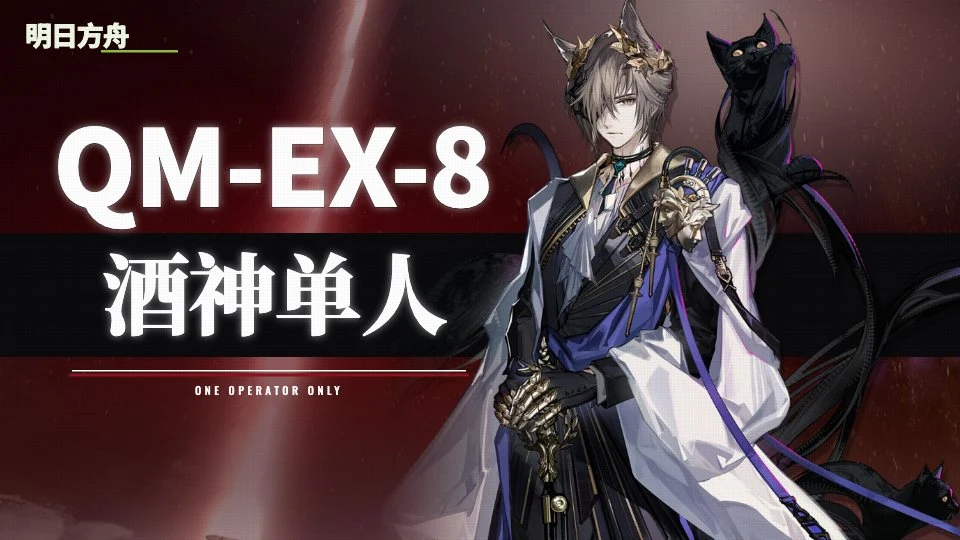
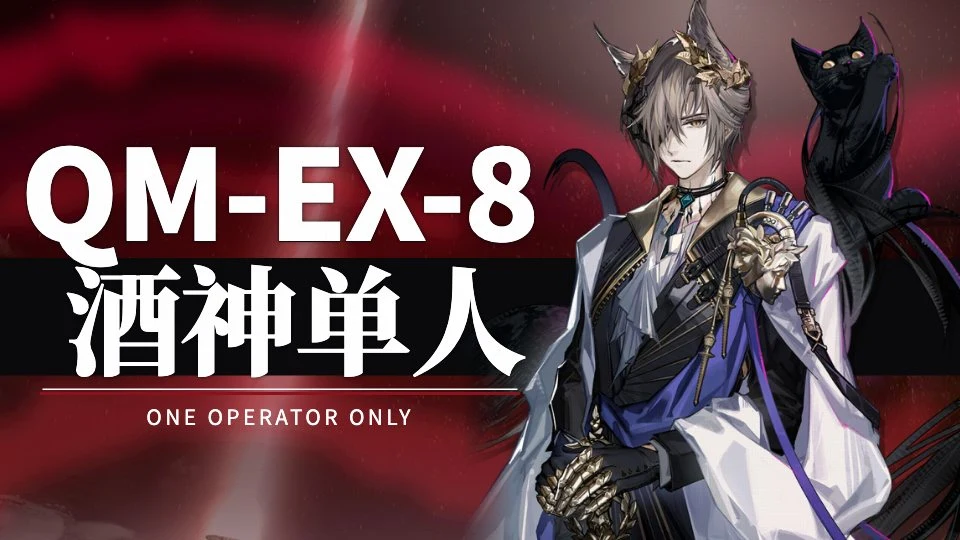
feat(template): 按用户稿重排仅需一人
WHAT: 把仅需一人默认构图改成用户确认过的排版
WHY: 旧默认字级、立绘位置和官方标与实际使用稿不一致
HOW: 加宽左侧字栏、去掉默认官方标、补红雾；读旧稿时清掉已固化的默认偏移

diff --git a/src/templates/Solo.browser.test.tsx b/src/templates/Solo.browser.test.tsx
@@ -6,7 +6,7 @@ import { EditorPanel } from "../components/EditorPanel";
 import { EffectsPanel } from "../components/EffectsPanel";
 import { InspectorPanel } from "../components/InspectorPanel";
 import "../index.css";
-import { emptyDraft } from "../lib/storage";
+import { emptyDraft, loadState, saveState } from "../lib/storage";
 import { CoverProvider } from "../store/CoverContext";
 import { Solo } from "./Solo";
 
@@ -71,7 +71,7 @@ test("仅需一人模板显示关卡码、宋体标题和英文标", async () =>
   expect(washEl).not.toBeNull();
   expect(getComputedStyle(washEl!).opacity).toBe("1");
   expect(screen.container.querySelector('[data-cover-el="light"]')).not.toBeNull();
-  expect(screen.container.querySelector("[data-ak-mark]")?.textContent).toContain("明日方舟");
+  expect(screen.container.querySelector("[data-ak-mark]")).toBeNull();
   expect(operator).not.toBeNull();
 
   const canvas = screen.container.querySelector("[data-solo-canvas]") as HTMLElement;
@@ -89,7 +89,10 @@ test("仅需一人模板显示关卡码、宋体标题和英文标", async () =>
   expect(Math.abs(barBox.left - canvasBox.left)).toBeLessThan(8);
   const titleFace = title!.querySelector("[data-solo-title-face]") as HTMLElement;
   const faceBox = titleFace.getBoundingClientRect();
-  expect(faceBox.top).toBeGreaterThanOrEqual(barBox.top - 1);
+  expect(faceBox.width).toBeGreaterThan(canvasBox.width * 0.45);
+  expect(sloganBox.height).toBeGreaterThan(40);
+  // 用户配置将标题相对黑条上移约 3px。
+  expect(faceBox.top - barBox.top).toBeCloseTo(-3.0366323907455017, 1);
   expect(faceBox.bottom).toBeLessThanOrEqual(barBox.bottom + 1);
   const barSlot = screen.container.querySelector("[data-solo-title-bar]") as HTMLElement;
   const operatorSlot = screen.container.querySelector("[data-operator-slot]") as HTMLElement;
@@ -104,9 +107,9 @@ test("仅需一人模板显示关卡码、宋体标题和英文标", async () =>
   const axis = mid(titleBox);
   expect(mid(stageBox)).toBeLessThan(axis);
   expect(Math.abs(mid(stageBox) - axis)).toBeLessThan(40);
-  expect(Math.abs(mid(ruleBox) - axis)).toBeLessThan(16);
-  expect(Math.abs(mid(ruleRedBox) - axis)).toBeLessThan(16);
-  expect(Math.abs(mid(sloganBox) - axis)).toBeLessThan(16);
+  expect(Math.abs(mid(ruleBox) - axis)).toBeLessThan(32);
+  expect(Math.abs(mid(ruleRedBox) - axis)).toBeLessThan(32);
+  expect(Math.abs(mid(sloganBox) - axis)).toBeLessThan(32);
   expect(stage?.className).toContain("font-cn");
 
   const scene = screen.container.querySelector("[data-cover-bg]") as HTMLElement | null;
@@ -183,14 +186,14 @@ test("空稿带上酒神默认立绘和关卡码", () => {
   expect(draft.operatorId).toBe("char_1042_phatm2");
   expect(draft.artId).toBe("char_1042_phatm2_1");
   expect(draft.operatorName).toBe("酒神");
-  expect(draft.imageScale).toBe(203);
-  expect(draft.imageX).toBe(24);
-  expect(draft.imageY).toBe(121);
+  expect(draft.imageScale).toBe(244);
+  expect(draft.imageX).toBe(192.2750642673525);
+  expect(draft.imageY).toBe(182.0179948586127);
   expect(draft.bgPreset).toBe("38_g17_1");
   expect(draft.textBgPreset).toBe("21_G5_victoria_street_n_ruins");
   expect(draft.layers.find((layer) => layer.id === "wash")?.opacity).toBe(74);
   const operatorLayer = draft.layers.find((layer) => layer.id === "operator");
-  expect(operatorLayer?.kind === "image" ? operatorLayer.imageX : undefined).toBe(24);
+  expect(operatorLayer?.kind === "image" ? operatorLayer.imageX : undefined).toBe(192.2750642673525);
   expect(draft.effects.bgGrade.brightness).toBe(100);
   expect(draft.layers.some((layer) => layer.id === "slash-a")).toBe(false);
   expect(draft.layers.some((layer) => layer.id === "slash-b")).toBe(false);
@@ -297,7 +300,7 @@ test("光效在立绘后面，垂直可调", async () => {
   );
 
   await expect.element(screen.getByRole("button", { name: /光效/ })).toBeVisible();
-  await expect.element(screen.getByRole("button", { name: /方舟标/ })).toBeVisible();
+  expect(screen.getByRole("button", { name: /方舟标/ }).query()).toBeNull();
   await expect.element(screen.getByRole("button", { name: /立绘/ })).toBeVisible();
   await expect.element(screen.getByRole("button", { name: /标题黑条/ })).toBeVisible();
   expect(screen.getByRole("button", { name: /涡旋/ }).query()).toBeNull();
@@ -309,7 +312,7 @@ test("光效在立绘后面，垂直可调", async () => {
   expect(Number(getComputedStyle(operatorSlot).zIndex)).toBeGreaterThan(Number(getComputedStyle(lightSlot).zIndex));
   expect(screen.container.querySelector("[data-effects-overlay] [data-light-bloom]")).toBeNull();
   expect(light.querySelector("[data-light-bloom]")).not.toBeNull();
-  expect(screen.container.querySelector("[data-ak-mark]")?.textContent).toContain("明日方舟");
+  expect(screen.container.querySelector("[data-ak-mark]")).toBeNull();
 
   await screen.getByRole("button", { name: /特效/ }).click();
   await expect.element(screen.getByRole("button", { name: "立绘下" })).toBeVisible();
@@ -320,4 +323,43 @@ test("光效在立绘后面，垂直可调", async () => {
   await expect.element(screen.getByRole("slider", { name: /垂直/ })).toBeVisible();
   await screen.getByRole("slider", { name: /垂直/ }).fill("80");
   expect(getComputedStyle(light).transform).toMatch(/80/);
+});
+
+
+test("长标题和关卡码不会越出左侧文字区", async () => {
+  const screen = await render(
+    <div style={{ width: 1920, height: 1080 }}>
+      <Solo title="酒神单人无伤通关" subtitle="AT-EX-8突袭" signature="ONE OPERATOR ONLY"
+        mark="" episode={1} date="2026-09-09" operatorName="" imageUrl=""
+        imageScale={440} imageX={400} imageY={220} previewScale={1}
+        onImageDrag={() => undefined} showPlaceholder={false} bgPreset="ink" />
+    </div>,
+  );
+  await document.fonts.ready;
+  const canvas = screen.container.querySelector('[data-solo-canvas]')!.getBoundingClientRect();
+  for (const id of ['title', 'stage']) {
+    const face = screen.container.querySelector(`[data-cover-el="${id}"] [data-solo-title-face]`)!.getBoundingClientRect();
+    expect(face.left).toBeGreaterThanOrEqual(canvas.left);
+    expect(face.right).toBeLessThan(canvas.left + canvas.width * .62);
+    expect(face.bottom).toBeLessThan(canvas.bottom - 120);
+  }
+});
+
+
+test("采用用户布局时移除已固化偏移，保留其他草稿与自定义样式", () => {
+  const solo = emptyDraft("solo");
+  solo.imageScale = 440; solo.imageX = 400; solo.imageY = 220;
+  solo.elementStyles = {
+    stage: { x: -2.363110539845758, y: -52.00964010282776, color: "#ff0000" },
+    title: { x: 30.241002570694096, y: -3.0366323907455017 },
+    slogan: { x: 19 },
+  };
+  const other = emptyDraft("emergency-lesson");
+  saveState({ defaultsVersion: 35, drafts: { solo, "emergency-lesson": other } });
+  const migrated = loadState();
+  expect(migrated.drafts.solo?.imageScale).toBe(244);
+  expect(migrated.drafts.solo?.elementStyles).toEqual({ stage: { color: "#ff0000" }, slogan: { x: 19 } });
+  expect(migrated.drafts.solo?.layers.find(l => l.id === "ak-mark")?.removed).toBe(true);
+  expect(migrated.drafts["emergency-lesson"]).toEqual(other);
+  expect(loadState()).toEqual(migrated);
 });

diff --git a/src/templates/Solo.tsx b/src/templates/Solo.tsx
@@ -1,3 +1,4 @@
+import { useId } from "react";
 import { CoverElement } from "../components/CoverElement";
 import { renderBoxChrome } from "../canvas/LayerChrome";
 import { BILI_COVER, STAGE_BAR_WIDTH_MAX, STAGE_BAR_WIDTH_MIN } from "../constants";
@@ -13,24 +14,23 @@ import { OperatorLayer } from "./OperatorLayer";
 
 const WHITE = "#ffffff";
 const RED_RULE = "#8a121c";
-const TEXT_STACK_WIDTH = 820;
-const STACK_LEFT = 128;
-const STACK_TOP = 268;
-const TITLE_GAP = 28;
-const TITLE_BAR_PAD = 72;
-const RULE_WIDTH_DEFAULT = 788;
-const RED_RULE_WIDTH_DEFAULT = 800;
+const TEXT_STACK_WIDTH = 1040;
+const STACK_LEFT = 40;
+const STACK_TOP = 300;
+const TITLE_GAP = 16;
+const TITLE_BAR_PAD = 0;
+const RULE_WIDTH_DEFAULT = 950;
+const RED_RULE_WIDTH_DEFAULT = 960;
 
 function titleSize(length: number) {
   if (length <= 2) return 216;
-  if (length <= 4) return 176;
-  if (length <= 6) return 138;
-  return 108;
+  if (length <= 4) return 235;
+  return Math.floor(920 / Math.max(length, 1));
 }
 
 function stageSize(length: number) {
   if (length <= 5) return 228;
-  if (length <= 7) return 212;
+  if (length <= 7) return 250;
   if (length <= 9) return 176;
   return 148;
 }
@@ -40,8 +40,8 @@ function GlowWord({ text, stroke = "0.01em #101014" }: { text: string; stroke?: 
     <span data-solo-title-face="" className="relative inline-block whitespace-nowrap leading-none">
       <span
         aria-hidden
-        className="pointer-events-none absolute inset-0 text-white/55"
-        style={{ filter: "blur(8px)" }}
+        className="pointer-events-none absolute inset-0 text-black/65"
+        style={{ filter: "blur(4px)" }}
       >
         {text}
       </span>
@@ -73,6 +73,7 @@ function barWidth(props: CoverRenderProps, id: string, fallback: number) {
 }
 
 export function Solo(props: CoverRenderProps) {
+  const smokeId = useId().replace(/:/g, "");
   const cover = useCoverOptional();
   const styles = props.elementStyles;
   const title = elementText(styles, "title", props.title.trim() || "酒神单人");
@@ -136,6 +137,21 @@ export function Solo(props: CoverRenderProps) {
               "radial-gradient(ellipse 88% 78% at 34% 50%, rgb(118 10 16 / 0.88) 0%, rgb(58 6 10 / 0.52) 48%, transparent 76%), radial-gradient(ellipse 56% 46% at 82% 8%, rgb(200 40 34 / 0.34) 0%, transparent 64%), radial-gradient(ellipse 40% 36% at 18% 78%, rgb(40 4 8 / 0.55) 0%, transparent 70%)",
           }}
         />
+        <svg className="absolute inset-0 h-full w-full" viewBox="0 0 1920 1080" fill="none" aria-hidden>
+          <defs>
+            <filter id={smokeId} x="-20%" y="-50%" width="140%" height="200%">
+              <feTurbulence type="fractalNoise" baseFrequency=".005 .014" numOctaves="3" seed="17" result="noise" />
+              <feDisplacementMap in="SourceGraphic" in2="noise" scale="100" />
+              <feGaussianBlur stdDeviation="24" />
+            </filter>
+          </defs>
+          <g filter={`url(#${smokeId})`}>
+            <path d="M-120 200 Q380 -60 960 210 T2000 160" stroke="#d90829" strokeWidth="110" opacity=".65" />
+            <path d="M-100 365 Q460 90 970 340 T2030 280" stroke="#65051c" strokeWidth="95" opacity=".75" />
+            <path d="M-100 488 Q280 225 920 454" stroke="#ed1233" strokeWidth="48" opacity=".5" />
+            <path d="M-120 1000 Q320 680 760 876 T1900 860" stroke="#a91a28" strokeWidth="150" opacity=".65" />
+          </g>
+        </svg>
       </CoverElement>
 
       <div data-solo-light="" className="pointer-events-none absolute inset-0" style={{ zIndex: zLight }}>
@@ -144,7 +160,7 @@ export function Solo(props: CoverRenderProps) {
         </CoverElement>
       </div>
 
-      <CoverElement
+      {markLayer && !markLayer.hidden && !markLayer.removed ? <CoverElement
         id="ak-mark"
         kind="box"
         defaultX={48}
@@ -163,7 +179,7 @@ export function Solo(props: CoverRenderProps) {
           chrome: "ak-mark",
           color: styles?.["ak-mark"]?.color ?? markLayer?.color ?? "#eef6e4",
         })}
-      </CoverElement>
+      </CoverElement> : null}
 
       {props.bgDim ? <BgDimLayer on amount={props.bgDimAmount ?? 32} at="24% 48%" className="z-[3]" /> : null}
 
@@ -190,7 +206,7 @@ export function Solo(props: CoverRenderProps) {
         <OperatorLayer
           {...props}
           fadeLeft
-          fadeLeftSolid={22}
+          fadeLeftSolid={8}
           objectFit="contain"
           objectPosition="52% 18%"
           transformOrigin="center 16%"
@@ -215,8 +231,8 @@ export function Solo(props: CoverRenderProps) {
           id="stage"
           defaultFont="cn"
           defaultFontSize={stageSize(stage.length)}
-          defaultX={-22}
-          defaultY={-52}
+          defaultX={-2.363110539845758}
+          defaultY={-52.00964010282776}
           className="w-full text-center font-black tracking-[-0.02em] whitespace-nowrap"
           style={{ lineHeight: 0.8, width: "100%", height: stageRowH, textAlign: "center" }}
         >
@@ -228,8 +244,8 @@ export function Solo(props: CoverRenderProps) {
             id="title"
             defaultFont="serif"
             defaultFontSize={titleSize(title.length)}
-            defaultX={11}
-            defaultY={-10}
+            defaultX={30.241002570694096}
+            defaultY={-3.0366323907455017}
             className="absolute inset-0 z-[1] overflow-visible font-black tracking-[-0.02em]"
           >
             <span
@@ -266,9 +282,9 @@ export function Solo(props: CoverRenderProps) {
 
         <CoverElement
           id="slogan"
-          defaultFont="display"
-          defaultFontSize={22}
-          className="relative mt-[10px] w-full text-center font-medium tracking-[0.32em] whitespace-nowrap"
+          defaultFont="cn"
+          defaultFontSize={42}
+          className="relative mt-[10px] w-full text-center font-normal tracking-[0.16em] whitespace-nowrap"
           style={{ color: WHITE, width: "100%", textAlign: "center" }}
         >
           {slogan}

diff --git a/src/data/seeds/solo.ts b/src/data/seeds/solo.ts
@@ -31,14 +31,16 @@ export const soloLayers: Layer[] = [
     fill: "transparent",
     color: "#eef6e4",
     chrome: "ak-mark",
+    hidden: true,
+    removed: true,
   }),
   boxLayer({
     id: "title-bar",
     label: "标题黑条",
     x: 0,
-    y: 528,
+    y: 516,
     w: 1920,
-    h: 248,
+    h: 235,
     fill: "#0a0a0c",
     color: "#0a0a0c",
   }),
@@ -49,46 +51,47 @@ export const soloLayers: Layer[] = [
     y: 0,
     w: 1280,
     h: 1080,
-    scale: 203,
+    scale: 244,
     fadeLeft: true,
-    fadeLeftSolid: 22,
+    fadeLeftSolid: 8,
     objectFit: "contain",
     objectPosition: "52% 18%",
     transformOrigin: "center 16%",
-    imageX: 24,
+    imageX: 192.2750642673525,
+    imageY: 182.0179948586127,
   }),
   textLayer({
     id: "stage",
     label: "关卡码",
-    x: 106,
-    y: 216,
-    w: 980,
+    x: 37.63688946015424,
+    y: 247.99035989717224,
+    w: 1040,
     h: 220,
     bind: "subtitle",
     font: "cn",
-    fontSize: 212,
+    fontSize: 250,
     color: "#ffffff",
     autoSize: "stageCode",
   }),
   textLayer({
     id: "title",
     label: "主标题",
-    x: 139,
-    y: 538,
-    w: 980,
-    h: 140,
+    x: 70.2410025706941,
+    y: 512.9633676092545,
+    w: 1040,
+    h: 235,
     bind: "title",
     font: "serif",
-    fontSize: 176,
+    fontSize: 235,
     color: "#ffffff",
     autoSize: "theme",
   }),
   boxLayer({
     id: "rule",
     label: "白线",
-    x: 110,
-    y: 786,
-    w: 788,
+    x: 85,
+    y: 777,
+    w: 950,
     h: 3,
     fill: "#ffffff",
     color: "#ffffff",
@@ -96,9 +99,9 @@ export const soloLayers: Layer[] = [
   boxLayer({
     id: "rule-red",
     label: "红线",
-    x: 110,
-    y: 798,
-    w: 800,
+    x: 80,
+    y: 784,
+    w: 960,
     h: 6,
     fill: "#8a121c",
     color: "#8a121c",
@@ -106,13 +109,13 @@ export const soloLayers: Layer[] = [
   textLayer({
     id: "slogan",
     label: "英文标",
-    x: 128,
-    y: 816,
-    w: 780,
-    h: 36,
+    x: 40,
+    y: 800,
+    w: 1040,
+    h: 60,
     bind: "signature",
-    font: "display",
-    fontSize: 22,
+    font: "cn",
+    fontSize: 42,
     color: "#ffffff",
     letterSpacing: 8,
   }),
